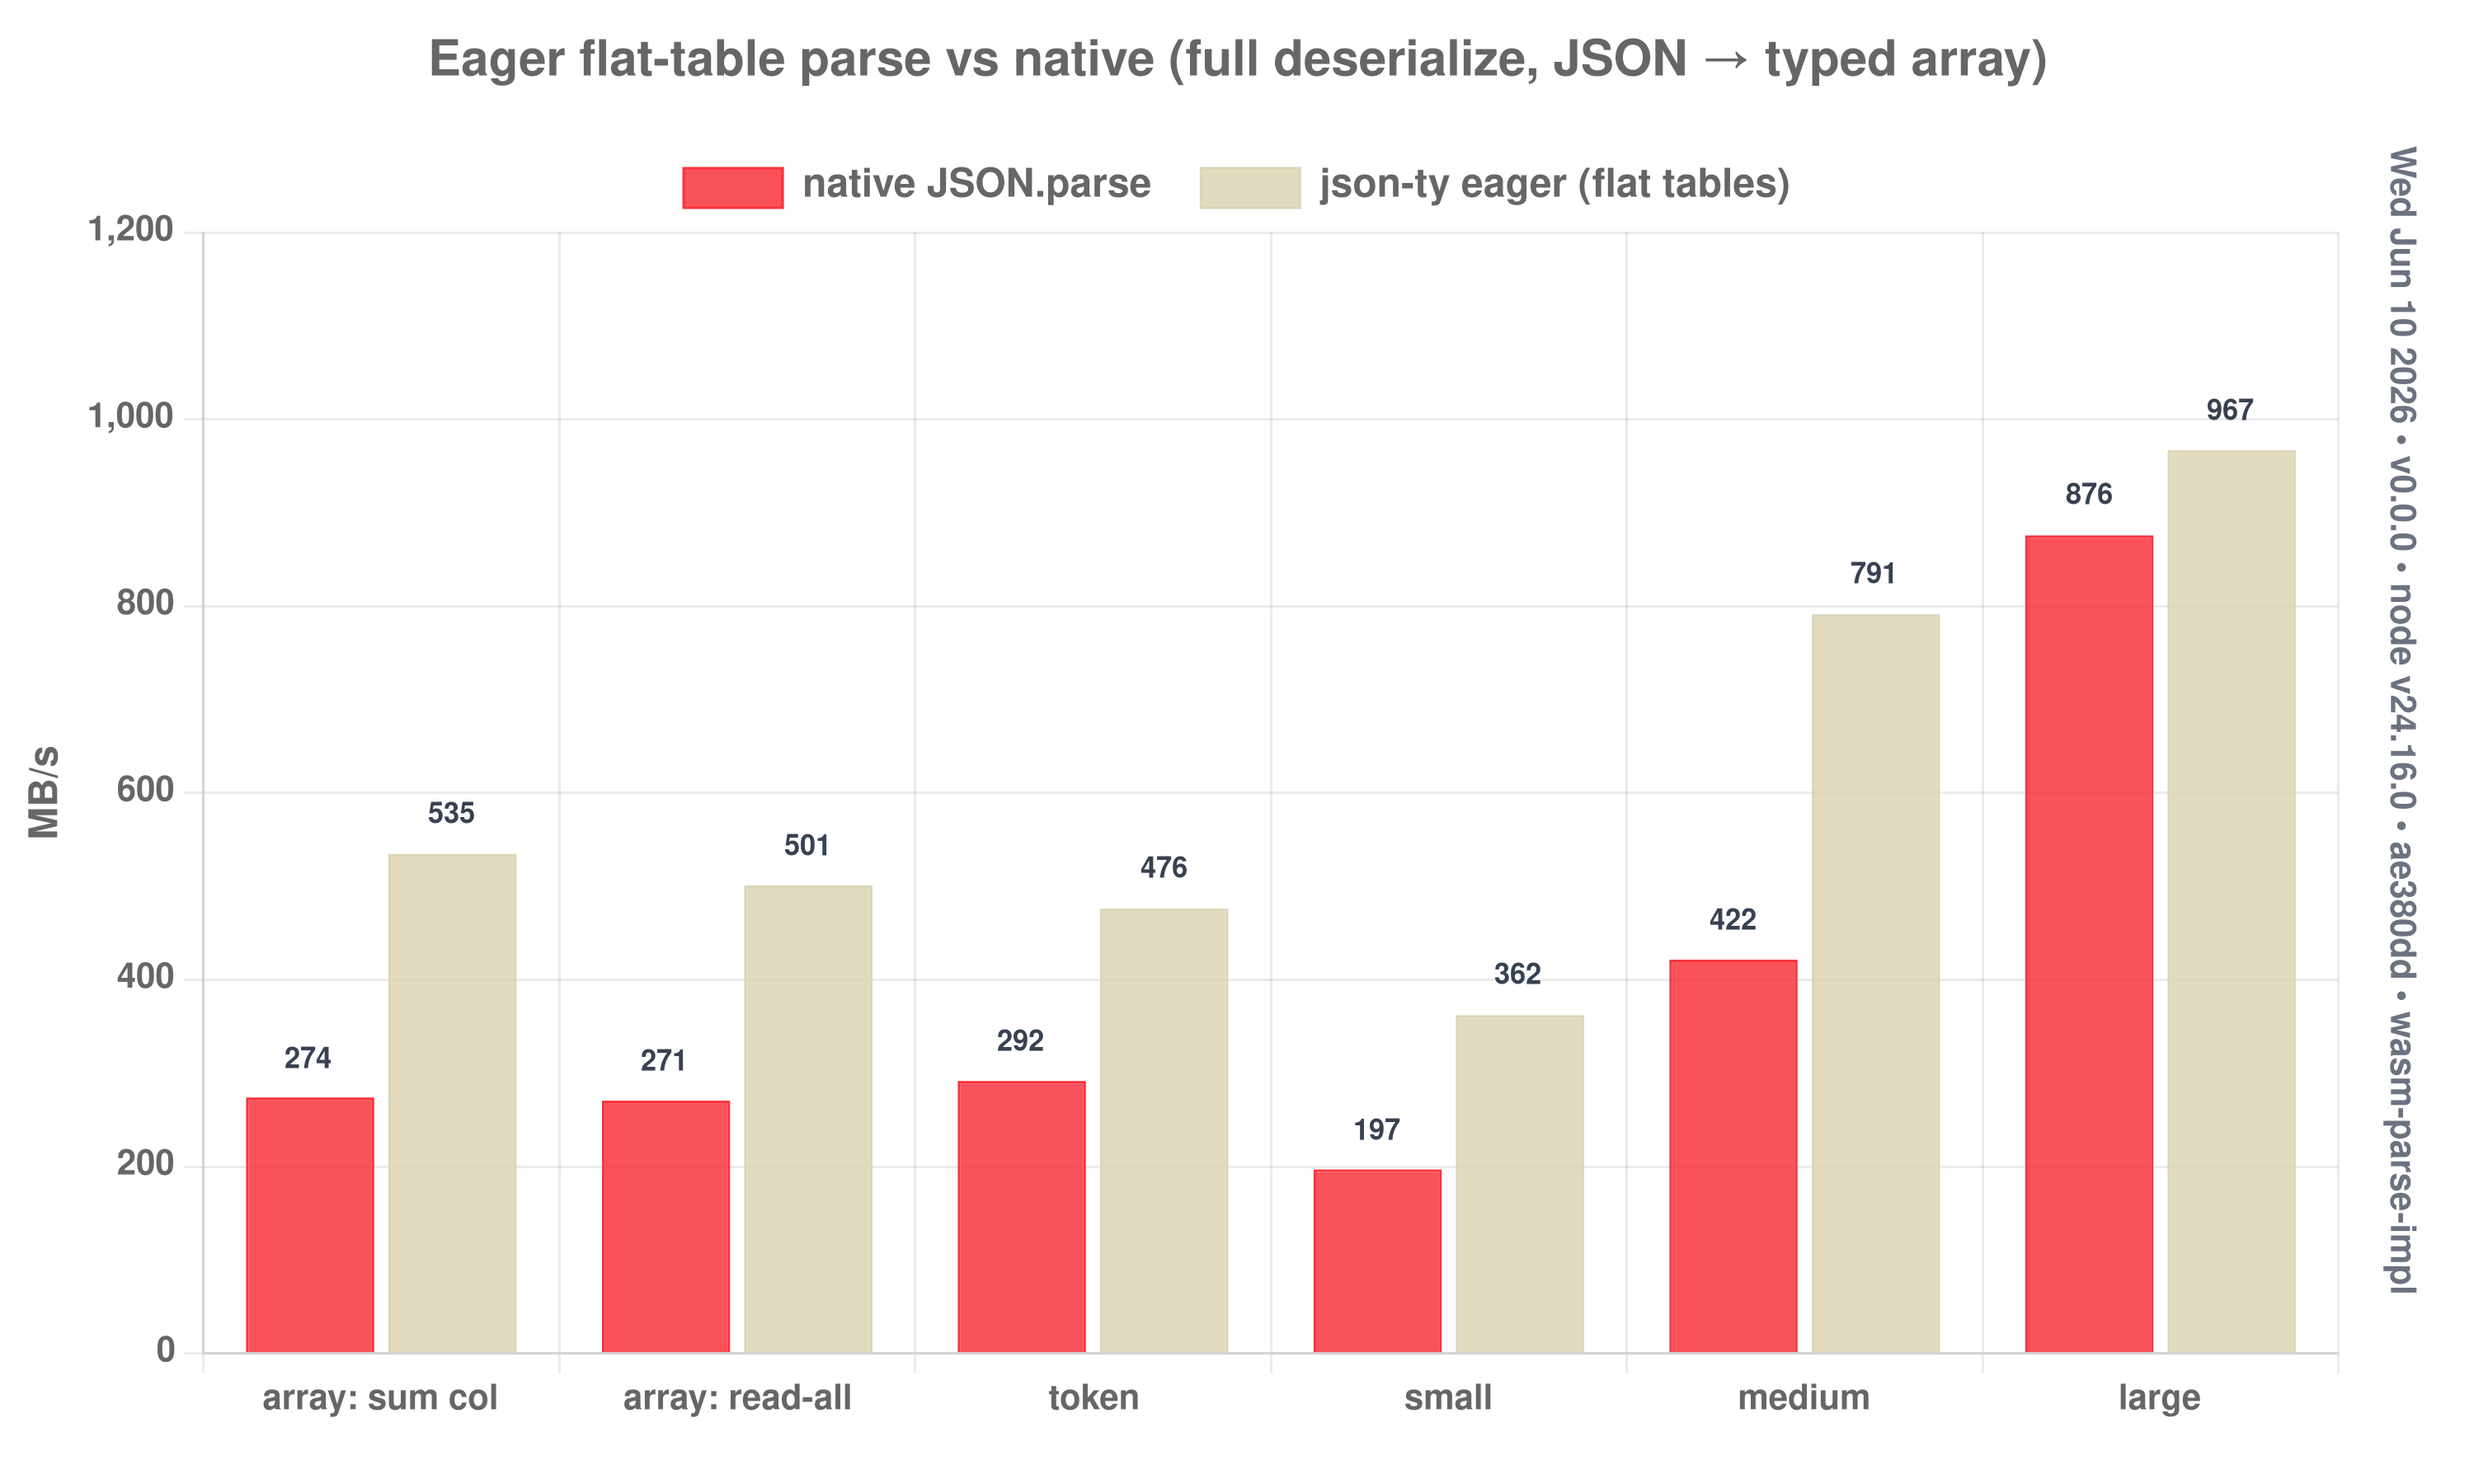
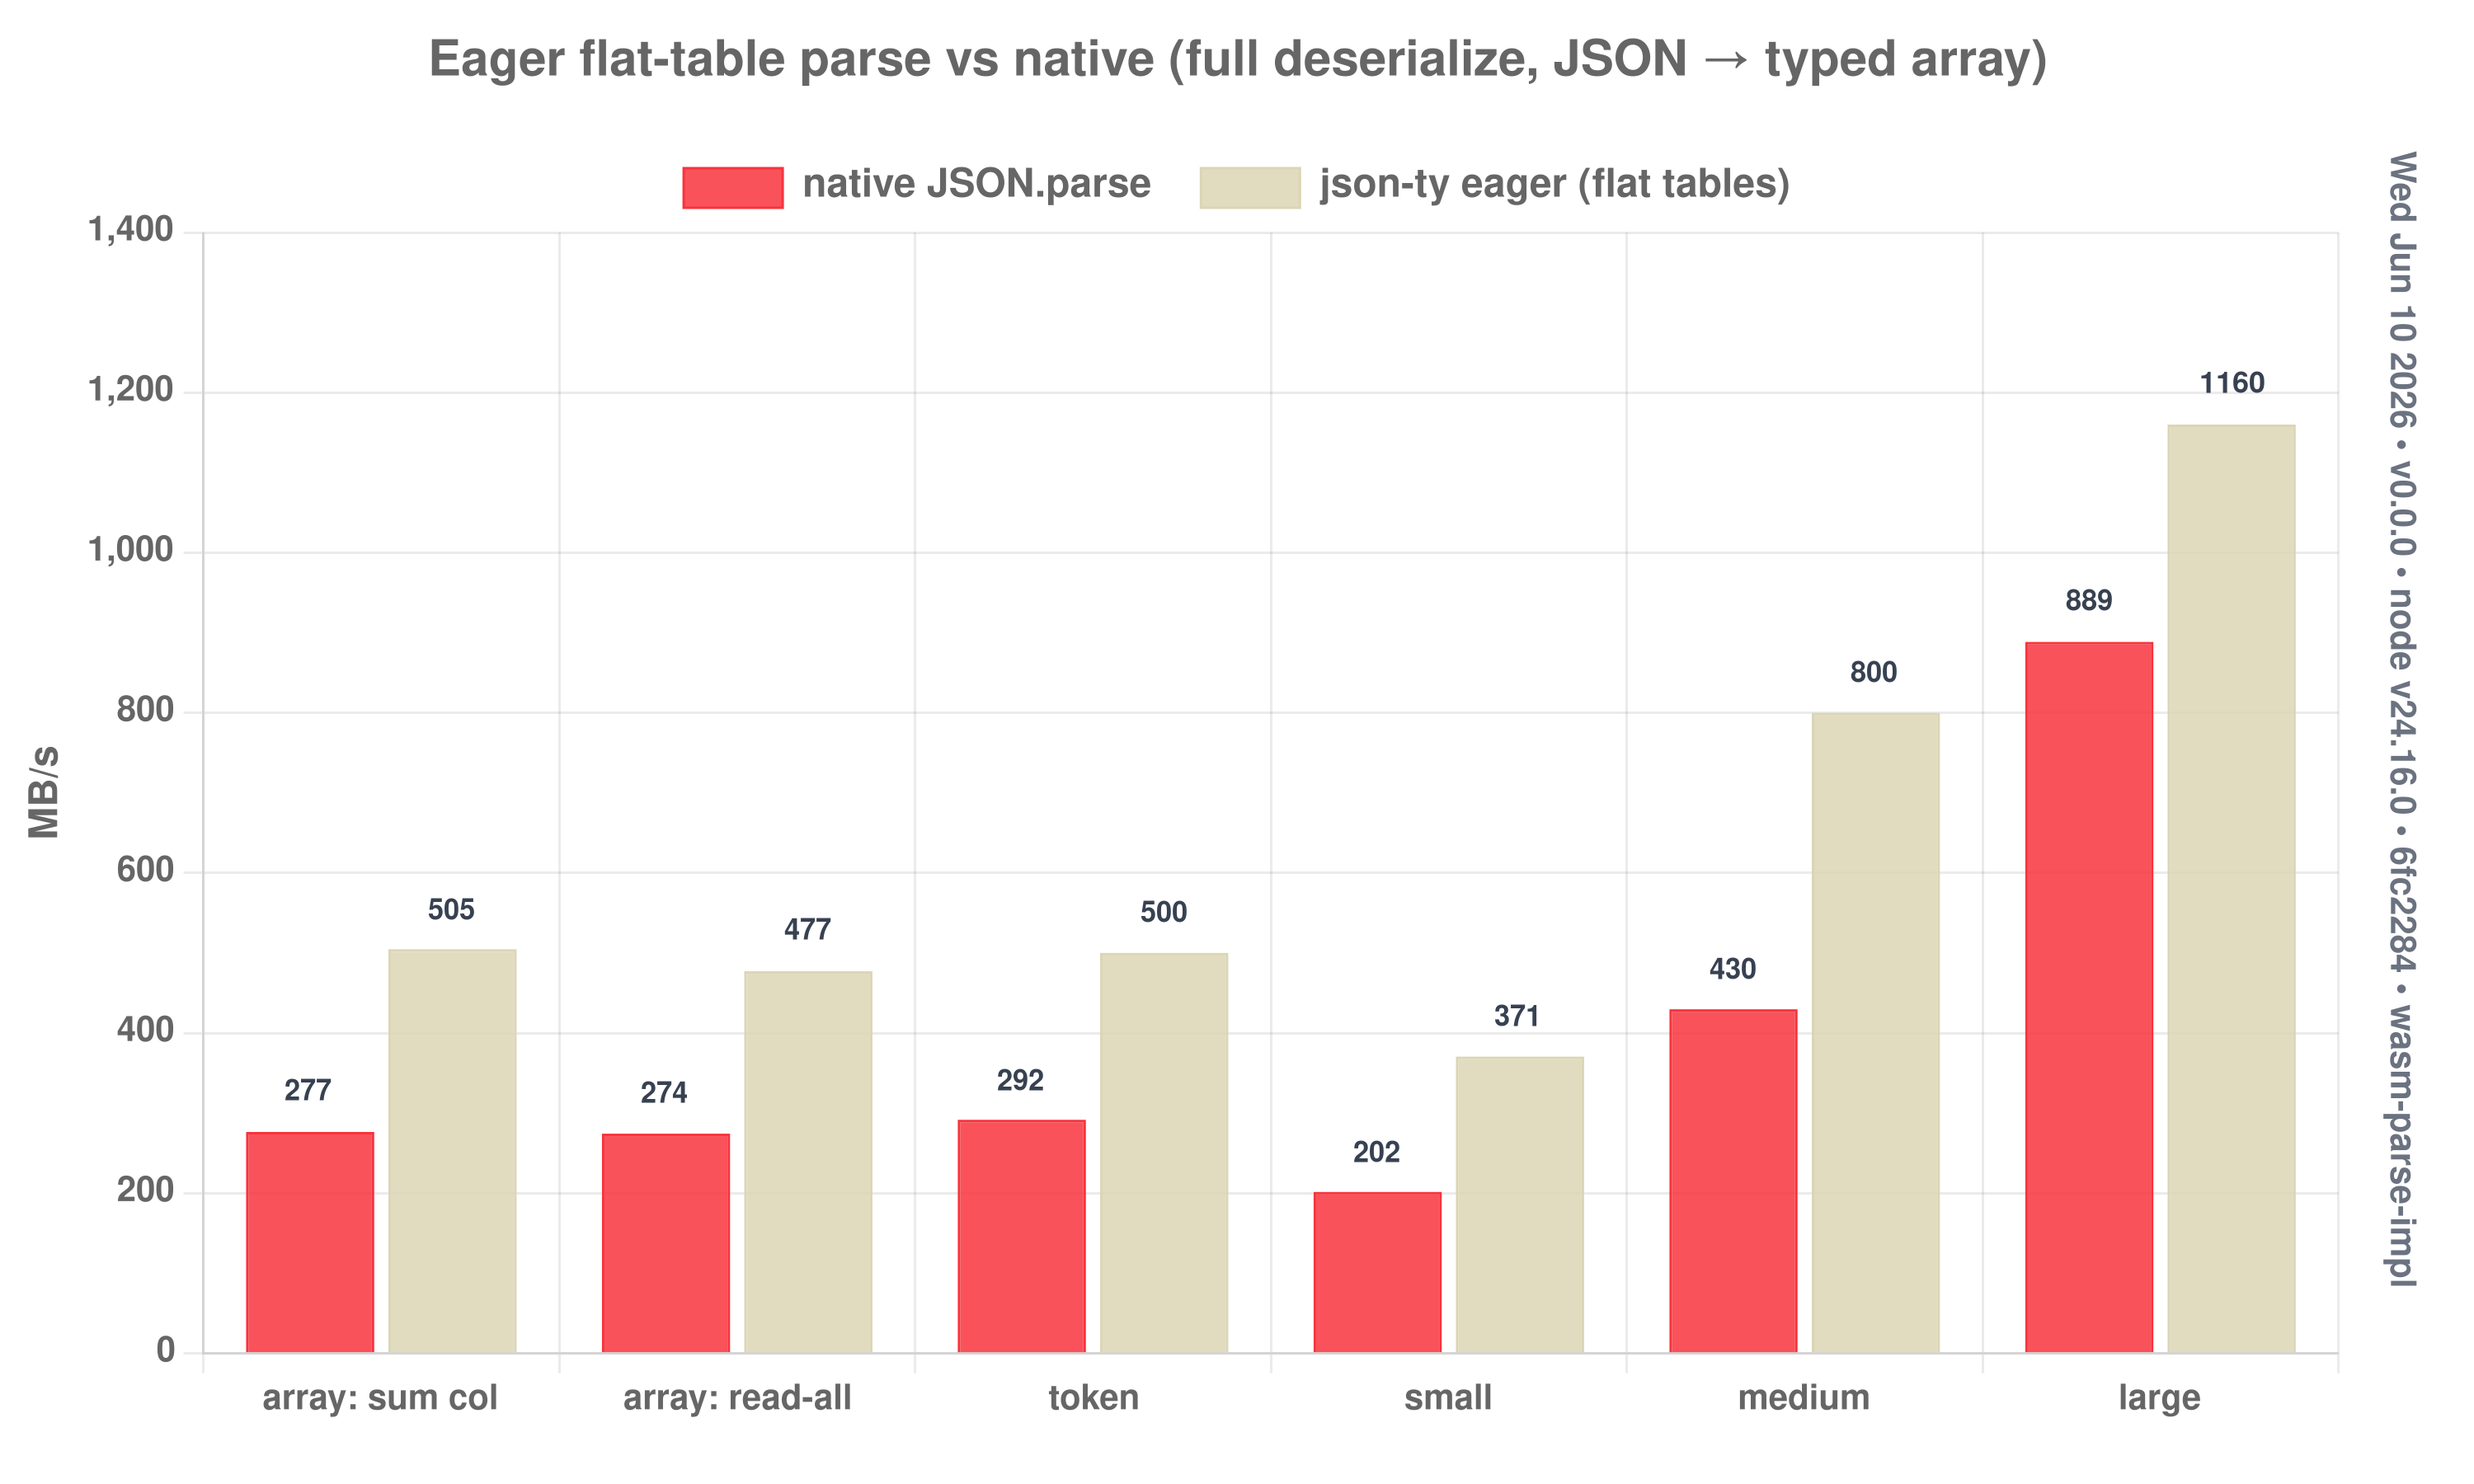
Optimize eager parser: O(1) hash matchKey + flat array fast path
Confirmed the eager parse is already 1 WASM call (recursion is internal; JS
follows table pointers via typed arrays — 0 extra calls).

Optimizations:
- matchKey is now hybrid: linear scan for <=16-field schemas, O(1)
  open-addressing FNV hash above. Wide objects (large, ~80 fields) were O(M^2)
  per object; the hash makes them O(1). Small schemas keep the cheaper linear
  path (hashing the key isn't worth it for a few fields).
- arrTable flat fast path: when the element schema has no sub-tables, write
  records straight to the arena (skip the TMP side-stack buffering + memcpy).

Stable result (full read, eager/native): large 1.11x -> 1.31x (the big win),
medium 1.86x, array sum 1.82x / read-all 1.74x, token 1.71x, small 1.84x.
All correctness-gated vs native.

diff --git a/experiments/eager-parse/assembly/eager.ts b/experiments/eager-parse/assembly/eager.ts
@@ -26,13 +26,29 @@ const fieldKeyLen = new StaticArray<i32>(MAX_FIELDS);
 const fieldChild = new StaticArray<i32>(MAX_FIELDS);
 const schemaStart = new StaticArray<i32>(256);
 const schemaCount = new StaticArray<i32>(256);
+const schemaFlat = new StaticArray<bool>(256); // true = no nested fields
 let nSchemas = 0, keysBump = 0, fieldsBump = 0;
+const MODE_PRIM: i32 = -1, MODE_LEAF: i32 = -2;
+
+// Per-schema open-addressing hash: key bytes -> field index (O(1) matchKey).
+const HASHTAB = new StaticArray<i32>(1 << 16);
+const schemaHashStart = new StaticArray<i32>(256);
+const schemaHashMask = new StaticArray<i32>(256);
+let hashBump = 0;
+
+// @ts-ignore
+@inline function fnv(p: usize, len: i32): u32 {
+  let h: u32 = 2166136261;
+  for (let i = 0; i < len; i++) { h ^= <u32>load<u8>(p + i); h *= 16777619; }
+  return h;
+}
 
 export function srcPtr(): usize { return changetype<usize>(SRC); }
 
 export function registerSchema(descPtr: usize, count: i32): i32 {
   const sid = nSchemas++;
-  schemaStart[sid] = fieldsBump;
+  const fstart = fieldsBump;
+  schemaStart[sid] = fstart;
   schemaCount[sid] = count;
   let p = descPtr;
   for (let f = 0; f < count; f++) {
@@ -46,10 +62,27 @@ export function registerSchema(descPtr: usize, count: i32): i32 {
     fieldsBump++;
     keysBump += <i32>klen;
   }
+  // build the hash table (size = next pow2 >= 2*count, min 4)
+  let tab = 4; while (tab < count * 2) tab <<= 1;
+  const mask = tab - 1;
+  schemaHashStart[sid] = hashBump;
+  schemaHashMask[sid] = mask;
+  for (let s = 0; s < tab; s++) HASHTAB[hashBump + s] = 0;
+  const keys = changetype<usize>(SCHEMA_KEYS);
+  for (let f = 0; f < count; f++) {
+    const fi = fstart + f;
+    const h = fnv(keys + fieldKeyOff[fi], fieldKeyLen[fi]);
+    let slot = <i32>(h & <u32>mask);
+    while (HASHTAB[hashBump + slot] != 0) slot = (slot + 1) & mask;
+    HASHTAB[hashBump + slot] = f + 1;
+  }
+  hashBump += tab;
+  // flat = no field allocates a sub-table -> records can go straight to the arena
+  let flat = true;
+  for (let f = 0; f < count; f++) if (fieldChild[fstart + f] != MODE_LEAF) { flat = false; break; }
+  schemaFlat[sid] = flat;
   return sid;
 }
-
-const MODE_PRIM: i32 = -1, MODE_LEAF: i32 = -2;
 
 // ---- byte helpers / kernels (from parser.ts) -----------------------------
 const QUOTE: u8 = 0x22, BACKSLASH: u8 = 0x5c, LBRACE: u8 = 0x7b, RBRACE: u8 = 0x7d;
@@ -97,11 +130,30 @@ function scanComposite(p: i32, end: i32): i32 {
   }
   return i;
 }
+const LINEAR_MAX: i32 = 16; // small schemas: linear scan beats hashing the key
+
 function matchKey(sid: i32, koff: i32, klen: i32): i32 {
-  const start = schemaStart[sid], n = schemaCount[sid];
   const src = changetype<usize>(SRC) + koff, keys = changetype<usize>(SCHEMA_KEYS);
-  for (let f = 0; f < n; f++) { const fi = start + f; if (fieldKeyLen[fi] != klen) continue; if (memory.compare(src, keys + fieldKeyOff[fi], klen) == 0) return f; }
-  return -1;
+  const n = schemaCount[sid], fstart = schemaStart[sid];
+  if (n <= LINEAR_MAX) {
+    for (let f = 0; f < n; f++) {
+      const fi = fstart + f;
+      if (fieldKeyLen[fi] == klen && memory.compare(src, keys + fieldKeyOff[fi], klen) == 0) return f;
+    }
+    return -1;
+  }
+  // larger schemas: O(1) hash
+  const h = fnv(src, klen);
+  const hstart = schemaHashStart[sid], mask = schemaHashMask[sid];
+  let slot = <i32>(h & <u32>mask);
+  for (;;) {
+    const e = HASHTAB[hstart + slot];
+    if (e == 0) return -1;
+    const f = e - 1, fi = fstart + f;
+    if (fieldKeyLen[fi] == klen && memory.compare(src, keys + fieldKeyOff[fi], klen) == 0) return f;
+    slot = (slot + 1) & mask;
+  }
+  return -1; // unreachable
 }
 
 const NaN64: f64 = NaN;
@@ -176,8 +228,35 @@ function objTable(sid: i32, p0: i32, end: i32): usize {
 // Array of objects -> [N][Melem] table (records contiguous via TMP). Returns region ptr.
 function arrTable(elemSid: i32, p0: i32, end: i32): usize {
   const base = changetype<usize>(SRC);
-  const tmp = changetype<usize>(TMP);
   const m = schemaCount[elemSid];
+
+  // flat fast path: records have no sub-tables, so write straight to the arena
+  // (contiguous) — no TMP buffering, no final memcpy.
+  if (schemaFlat[elemSid]) {
+    const region = changetype<usize>(ARENA) + bump;
+    bump += 8;
+    let i = p0 + 1, count = 0;
+    while (i < end) {
+      while (i < end && isWs(load<u8>(base + i))) i++;
+      if (load<u8>(base + i) == RBRACK) { i++; break; }
+      if (load<u8>(base + i) == LBRACE) {
+        const recBase = changetype<usize>(ARENA) + bump;
+        bump += <usize>m << 3;
+        for (let f = 0; f < m; f++) store<f64>(recBase + (<usize>f << 3), 0);
+        recordInto(elemSid, i, end, recBase);
+        i = pend; count++;
+      } else { i = scanComposite(i, end); }
+      while (i < end && isWs(load<u8>(base + i))) i++;
+      if (load<u8>(base + i) == COMMA) { i++; continue; }
+      if (load<u8>(base + i) == RBRACK) { i++; break; }
+      break;
+    }
+    store<u32>(region, <u32>count); store<u32>(region + 4, <u32>m);
+    pend = i;
+    return region;
+  }
+
+  const tmp = changetype<usize>(TMP);
   const baseTsp = tsp;
   let i = p0 + 1;
   while (i < end) {

diff --git a/experiments/eager-parse/README.md b/experiments/eager-parse/README.md
@@ -12,10 +12,15 @@ object/array becomes its own flat table** and the parent slot holds a **u32
 pointer** to it. JS reads each table via typed arrays and follows pointers — zero
 per-field allocation, no slot-decode object, no `Map`.
 
-- `assembly/eager.ts` — `objTable` / `arrTable` (records contiguous via a side
-  stack so nested allocations don't interleave) / `primTable`. Scalars inline
+- `assembly/eager.ts` — `objTable` / `arrTable` / `primTable`. Scalars inline
   (`f64`), strings as `(off,len)` spans, nested as u32 region pointers. Reuses
-  `parseF64`/`skipString`/`scanComposite`/`matchKey`/`registerSchema`.
+  `parseF64`/`skipString`/`scanComposite`. **One WASM call per parse** —
+  recursion happens entirely inside it; JS follows pointers via typed arrays.
+  - `matchKey`: **hybrid** — linear scan for ≤16-field schemas, O(1) open-
+    addressing **hash** above (FNV). Big win for wide objects (`large`, ~80
+    fields) without taxing small ones.
+  - `arrTable`: **flat fast path** — when the element schema has no sub-tables,
+    records are written straight to the arena (no side-stack buffering / copy).
 - `reader.mjs` — `num`/`bool`/`str` read from `Float64Array`/`Uint32Array`;
   `child` follows a pointer to a sub-table; `sumColumn` strides a numeric column.
 
@@ -29,14 +34,15 @@ bash experiments/eager-parse/run.sh     # build + bench + chart
 
 | payload | bytes | native | lazy | **eager** | eager/native |
 |---------|------:|-------:|-----:|----------:|-------------:|
-| array: sum col (2000 recs) | 124 KB | 274 | 490 | **535** | **1.94×** |
-| array: read-all            | 124 KB | 271 | 351 | **501** | **1.85×** |
-| token   | 49    | 292 | ~284 | **476** | **1.63×** |
-| small   | 44    | 197 | ~205 | **362** | **1.84×** |
-| medium  | 1070  | 423 | **0.79× (lost)** | **791** | **1.87×** |
-| large   | 5251  | 876 | **0.59× (lost)** | **967** | **1.11×** |
+| array: sum col (2000 recs) | 124 KB | 277 | 496 | **505** | **1.82×** |
+| array: read-all            | 124 KB | 274 | 358 | **477** | **1.74×** |
+| token   | 49    | 292 | ~284 | **500** | **1.71×** |
+| small   | 44    | 202 | ~205 | **371** | **1.84×** |
+| medium  | 1070  | 430 | **0.79× (lost)** | **800** | **1.86×** |
+| large   | 5251  | 889 | **0.59× (lost)** | **1160** | **1.31×** |
 
-(lazy = `experiments/deserialize` read-all; correctness-gated vs native.)
+(lazy = `experiments/deserialize` read-all; correctness-gated vs native. `large`
+went 1.11× → **1.31×** with the O(1) hash matchKey.)
 
 ## Why it wins (and where it matters)
 
